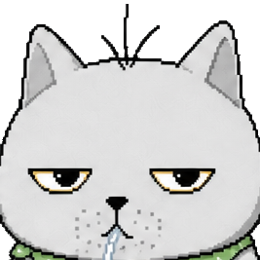
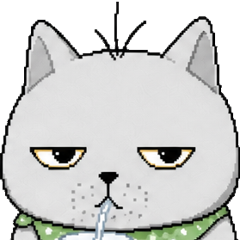
Story Mode 参考页:像素块加重 + 日狗头像改全脸
.pix 边框 2.5→4px、阴影 3→5px、点纹更大(16px);头像重裁为全脸正方形
(含耳/眼/鼻/嘴/围巾)+ object-fit cover + image-rendering pixelated 方框。
锁定风格后再铺到全 App(创始人选 B 全换;故事句子忽略不做)。

Changed region(s): [[0.0, 0.0, 1.0, 1.0], [0.0875, 0.5833, 0.3792, 0.7583], [0.5542, 0.5833, 0.8458, 0.7583]]

diff --git a/story-mode.html b/story-mode.html
@@ -13,10 +13,10 @@
   }
   *{box-sizing:border-box;margin:0;padding:0;-webkit-tap-highlight-color:transparent;}
   body{font-family:-apple-system,"PingFang SC",system-ui,sans-serif;color:var(--ink);
-    background-color:var(--bg);background-image:radial-gradient(var(--dot) 1.6px,transparent 1.6px);background-size:11px 11px;
-    padding:14px 15px 96px;line-height:1.5;}
+    background-color:var(--bg);background-image:radial-gradient(var(--dot) 2.6px,transparent 2.6px);background-size:16px 16px;
+    padding:14px 15px 98px;line-height:1.5;}
   ruby rt{font-size:.5em;color:var(--soft);font-weight:600;}
-  .pix{border:2.5px solid var(--border);border-radius:9px;box-shadow:3px 3px 0 var(--sh);background:var(--card);}
+  .pix{border:4px solid var(--border);border-radius:6px;box-shadow:5px 5px 0 var(--sh);background:var(--card);}
 
   .top{display:flex;align-items:center;justify-content:space-between;margin-bottom:12px;}
   .logo{font-size:15px;font-weight:800;letter-spacing:.5px;padding:7px 13px;display:flex;align-items:center;gap:6px;}
@@ -30,8 +30,8 @@
   .card{padding:13px 14px 10px;margin-bottom:13px;}
   .chead{display:flex;align-items:center;gap:9px;margin-bottom:9px;}
   .chead.rev{flex-direction:row-reverse;}
-  .ava{width:40px;height:40px;border:2.5px solid var(--border);border-radius:7px;background:var(--tag);overflow:hidden;flex-shrink:0;}
-  .ava img{width:118%;height:118%;object-fit:cover;margin:2px 0 0 -8%;}
+  .ava{width:46px;height:46px;border:4px solid var(--border);border-radius:6px;background:var(--tag);overflow:hidden;flex-shrink:0;}
+  .ava img{width:100%;height:100%;object-fit:cover;object-position:center;image-rendering:pixelated;display:block;}
   .who{flex:1;font-weight:800;font-size:15px;}
   .chead.rev .who{text-align:right;}
   .meta{display:flex;align-items:center;gap:8px;flex-shrink:0;}
@@ -56,7 +56,7 @@
     background:linear-gradient(to top,var(--bg) 72%,rgba(211,225,185,0));}
   .input{flex:1;height:42px;display:flex;align-items:center;padding:0 15px;color:var(--soft);font-size:14.5px;}
   .iconbtn{width:42px;height:42px;display:grid;place-items:center;font-size:17px;flex-shrink:0;color:var(--ink);}
-  .iconbtn.go{background:var(--green);color:#fff;box-shadow:3px 3px 0 var(--green-dk);border-color:var(--green-dk);}
+  .iconbtn.go{background:var(--green);color:#fff;box-shadow:5px 5px 0 var(--green-dk);border-color:var(--green-dk);}
 </style>
 </head>
 <body>